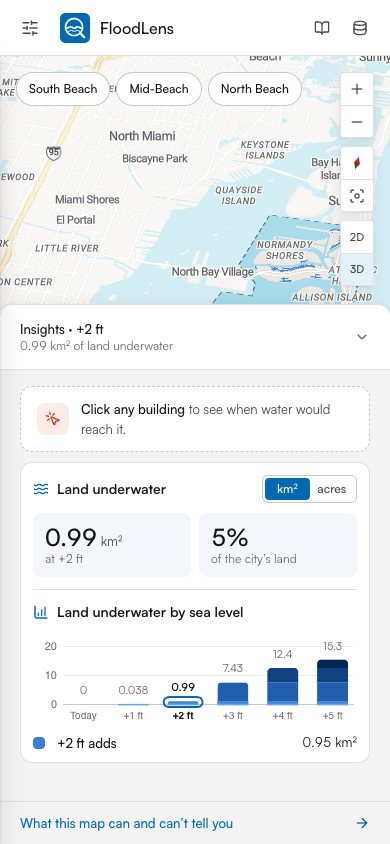
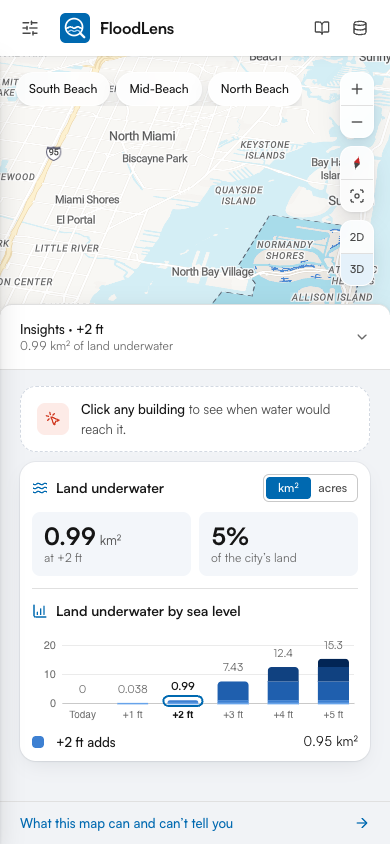
v0.25: building areas in m², soft depth and glass, bolder type
- Building footprints (and the low part of a footprint) always read in m²;
  10,000 m² and up used to switch to km².
- Panel cards: a faint ring and soft shadow instead of a hard border, 16 px
  corners, cooler canvas (#f1f3f6). Area chips, legend and map controls are
  frosted glass (88% white, text kept at 4.5:1+ over the darkest flood blue;
  solid when reduce-transparency is on). Header shadow instead of a line.
- Bolder type: wordmark, panel titles, sea level, the card's answer and the
  two figures bold with tighter tracking; bolder, wider overlines.
- Before/after previews of all four directions saved in docs/versions/v0.25.

diff --git a/src/components/insights/InsightPanel.tsx b/src/components/insights/InsightPanel.tsx
@@ -46,7 +46,7 @@ export function InsightPanel({ manifestState, inspection, bands, highlightFt, on
       onClear={() => dispatch({ type: 'select', selection: null })}
     />
   ) : manifestState.status === 'ready' ? (
-    <div className="flex items-center gap-3 rounded-xl border border-dashed border-line-strong bg-surface px-4 py-3">
+    <div className="flex items-center gap-3 rounded-2xl border border-dashed border-[#d3d9e2] bg-surface px-4 py-3">
       <span className="grid size-8 shrink-0 place-items-center rounded-lg bg-[#fdebe7] text-[#d03a22]" aria-hidden>
         <MousePointerClick className="size-4" />
       </span>
@@ -56,7 +56,7 @@ export function InsightPanel({ manifestState, inspection, bands, highlightFt, on
     </div>
   ) : null
 
-  // A light grey canvas, so the white card and tile read as cards (v0.20).
+  // A light grey canvas, so the white card and tile read as cards (v0.20); soft shadows, not borders (v0.25).
   return (
     <div className="flex h-full flex-col bg-canvas">
       {/* No visible title: the card and the block headers already say what this is,
@@ -86,7 +86,7 @@ export function InsightPanel({ manifestState, inspection, bands, highlightFt, on
           <>
             {/* One tile for everything the km² / acres switch controls: the figures at the
                 chosen level, then every level in the chart, with what each foot adds. */}
-            <section aria-labelledby="summary-title" className="mt-2.5 rounded-xl border border-line bg-surface px-3 pt-3 pb-1.5">
+            <section aria-labelledby="summary-title" className="card mt-2.5 px-3 pt-3 pb-1.5">
               <div className="flex items-center justify-between gap-3">
                 <h3 id="summary-title" className="flex items-center gap-2 t-heading font-semibold">
                   <Waves className="size-4 shrink-0 text-accent" aria-hidden />
@@ -104,14 +104,14 @@ export function InsightPanel({ manifestState, inspection, bands, highlightFt, on
                   <div className="flex flex-col-reverse rounded-lg bg-[#f3f6fa] px-3 py-2.5">
                     <dt className="t-caption">at {formatScenario(s.feet)}</dt>
                     <dd className="flex items-baseline gap-1">
-                      <span className="text-[24px] leading-7 font-medium tracking-tight text-fg tabular">{formatArea(s.beyondBaselineM2, unit)}</span>
+                      <span className="text-[24px] leading-7 font-bold tracking-[-0.03em] text-fg tabular">{formatArea(s.beyondBaselineM2, unit)}</span>
                       <span className="text-[13px] text-fg-muted">{unitShort}</span>
                     </dd>
                   </div>
                   {landM2 ? (
                     <div className="flex flex-col-reverse rounded-lg bg-[#f3f6fa] px-3 py-2.5">
                       <dt className="t-caption">of the city’s land</dt>
-                      <dd className="text-[24px] leading-7 font-medium tracking-tight text-fg tabular">
+                      <dd className="text-[24px] leading-7 font-bold tracking-[-0.03em] text-fg tabular">
                         {formatPercent(s.beyondBaselineM2 / landM2, true)}
                       </dd>
                     </div>

diff --git a/src/styles/index.css b/src/styles/index.css
@@ -12,7 +12,7 @@
   --font-mono: ui-monospace, 'SF Mono', Menlo, monospace;
 
   /* Surfaces */
-  --color-canvas: #f3f3f3;
+  --color-canvas: #f1f3f6;
   --color-surface: #ffffff;
   --color-surface-2: #f8f8f8;
   --color-surface-3: #efefef;
@@ -41,6 +41,11 @@
 
   --shadow-panel: 0 1px 2px rgb(0 0 0 / 0.06), 0 4px 16px rgb(0 0 0 / 0.08);
   --shadow-float: 0 1px 3px rgb(0 0 0 / 0.1), 0 8px 24px rgb(0 0 0 / 0.12);
+  /* v0.25: a faint ring and a soft, low shadow instead of a hard border (cards), and a
+     stronger lift for the frosted controls that float over the map (glass). */
+  --shadow-card: 0 0 0 1px rgb(16 24 40 / 0.05), 0 1px 2px rgb(16 24 40 / 0.04), 0 8px 20px -6px rgb(16 24 40 / 0.1);
+  --shadow-glass: 0 1px 2px rgb(16 24 40 / 0.06), 0 10px 24px -8px rgb(16 24 40 / 0.3);
+  --shadow-header: 0 1px 0 rgb(16 24 40 / 0.06), 0 4px 12px -4px rgb(16 24 40 / 0.06);
 
   --animate-fade-in: fade-in 180ms ease-out both;
   --animate-slide-up: slide-up 220ms cubic-bezier(0.2, 0.8, 0.2, 1) both;
@@ -88,6 +93,29 @@
     background: var(--color-surface);
     border-color: var(--color-line);
   }
+  /* Panel cards: no border, a faint ring and a soft shadow, 16 px corners (v0.25). */
+  .card {
+    border-radius: 16px;
+    background: var(--color-surface);
+    box-shadow: var(--shadow-card);
+  }
+  /* Frosted controls over the map: the map shows through, softened (v0.25). 88% white keeps
+     accent text at 4.5:1 even over the darkest flood blue; secondary text is a step darker
+     here for the same reason. */
+  .glass {
+    --color-fg-subtle: #575757;
+    background: rgb(255 255 255 / 0.88);
+    -webkit-backdrop-filter: blur(14px) saturate(1.5);
+    backdrop-filter: blur(14px) saturate(1.5);
+    box-shadow: var(--shadow-glass);
+  }
+  @media (prefers-reduced-transparency: reduce) {
+    .glass {
+      background: var(--color-surface);
+      -webkit-backdrop-filter: none;
+      backdrop-filter: none;
+    }
+  }
   .section-title {
     font-size: 13px;
     line-height: 20px;
@@ -99,8 +127,8 @@
   .t-display {
     font-size: 36px;
     line-height: 40px;
-    font-weight: 500;
-    letter-spacing: -0.01em;
+    font-weight: 700;
+    letter-spacing: -0.03em;
     font-variant-numeric: tabular-nums;
     color: var(--color-fg);
   }
@@ -121,7 +149,8 @@
   .t-heading {
     font-size: 14px;
     line-height: 20px;
-    font-weight: 500;
+    font-weight: 700;
+    letter-spacing: -0.005em;
     color: var(--color-fg);
   }
   .t-label {
@@ -140,10 +169,10 @@
     color: var(--color-fg-subtle);
   }
   .t-overline {
-    font-size: 11px;
+    font-size: 10.5px;
     line-height: 16px;
-    font-weight: 500;
-    letter-spacing: 0.06em;
+    font-weight: 700;
+    letter-spacing: 0.09em;
     text-transform: uppercase;
     color: var(--color-fg-subtle);
   }

diff --git a/src/components/insights/InspectionCard.tsx b/src/components/insights/InspectionCard.tsx
@@ -70,7 +70,7 @@ export function InspectionCard({ selection, inspection, scenarioFt, onClear }: P
   const Icon = building ? Building2 : onWater ? Waves : MapPin
 
   return (
-    <section aria-labelledby="insp-title" className="rounded-xl border border-line bg-surface p-3 shadow-panel animate-slide-up">
+    <section aria-labelledby="insp-title" className="card p-3 animate-slide-up">
       {/* What and where. The vermilion icon matches the selection on the map. */}
       <div className="flex items-start gap-2">
         <Icon className="mt-0.5 size-[18px] shrink-0 text-[#d03a22]" aria-hidden />
@@ -131,7 +131,7 @@ export function InspectionCard({ selection, inspection, scenarioFt, onClear }: P
               <div className="mt-3 rounded-lg border border-[#d5e6fa] bg-gradient-to-b from-[#f6faff] to-[#ecf4fd] px-3 pt-2 pb-1.5">
                 <div className="flex flex-wrap items-baseline justify-between gap-x-3">
                   <p className="t-overline">Water reaches at</p>
-                  <p className="text-[24px] leading-8 font-semibold tracking-tight text-fg tabular">{answer}</p>
+                  <p className="text-[24px] leading-8 font-bold tracking-[-0.03em] text-fg tabular">{answer}</p>
                 </div>
                 <div className="mt-1">
                   <LevelTrack levels={hits} firstFeet={firstFeet} scenarioFt={scenarioFt} />

diff --git a/src/components/controls/ControlPanel.tsx b/src/components/controls/ControlPanel.tsx
@@ -25,8 +25,8 @@ export function ControlPanel({ manifest }: Props) {
   return (
     // Each section on its own white tile over the grey canvas, matching the Insights panel (v0.20).
     <div className="scrollbar-thin flex h-full flex-col gap-3 overflow-y-auto bg-canvas p-3">
-      <section aria-labelledby="sec-level" className="rounded-xl border border-line bg-surface p-4">
-        <h2 id="sec-level" className="t-title mb-3">
+      <section aria-labelledby="sec-level" className="card p-4">
+        <h2 id="sec-level" className="t-title mb-3 text-[15px] font-bold tracking-[-0.01em]">
           Sea level
         </h2>
         <ScenarioSelector
@@ -37,8 +37,8 @@ export function ControlPanel({ manifest }: Props) {
         />
       </section>
 
-      <section aria-labelledby="sec-layers" className="rounded-xl border border-line bg-surface p-4">
-        <h2 id="sec-layers" className="t-title mb-2">
+      <section aria-labelledby="sec-layers" className="card p-4">
+        <h2 id="sec-layers" className="t-title mb-2 text-[15px] font-bold tracking-[-0.01em]">
           On the map
         </h2>
         {LAYERS.filter((l) => !l.needsLowLying || hasLowLying).map((l) => (

diff --git a/src/components/layout/TopBar.tsx b/src/components/layout/TopBar.tsx
@@ -11,7 +11,7 @@ interface Props {
 export function TopBar({ isDesktop, controlsOpen }: Props) {
   const dispatch = useAppDispatch()
   return (
-    <header className="relative z-30 flex h-14 shrink-0 items-center gap-3 border-b border-line bg-surface px-3 sm:px-4">
+    <header className="relative z-30 flex h-14 shrink-0 items-center gap-3 bg-surface px-3 shadow-[var(--shadow-header)] sm:px-4">
       {!isDesktop && (
         <button
           type="button"
@@ -27,7 +27,7 @@ export function TopBar({ isDesktop, controlsOpen }: Props) {
 
       <div className="flex min-w-0 items-center gap-2.5">
         <BrandMark size={30} />
-        <h1 className="t-title">FloodLens</h1>
+        <h1 className="t-title font-bold tracking-[-0.015em]">FloodLens</h1>
       </div>
 
       <div className="mx-1 hidden h-5 w-px bg-line md:block" aria-hidden />

diff --git a/src/components/map/AreaBookmarks.tsx b/src/components/map/AreaBookmarks.tsx
@@ -23,10 +23,10 @@ export function AreaBookmarks({ onGo, active }: Props) {
             type="button"
             onClick={() => onGo(a.id, a.center)}
             aria-current={on ? 'location' : undefined}
-            className={`shrink-0 rounded-full bg-surface text-[12px] leading-5 font-medium transition-colors sm:text-[13px] ${
+            className={`glass shrink-0 rounded-full text-[12px] leading-5 font-medium transition-colors sm:text-[13px] ${
               on
                 ? 'border-2 border-accent px-[11px] py-[5px] text-accent sm:px-[15px]'
-                : 'border border-line-strong px-3 py-1.5 text-fg hover:border-accent hover:text-accent sm:px-4'
+                : 'border border-white/80 px-3 py-1.5 text-fg hover:border-accent hover:text-accent sm:px-4'
             }`}
           >
             {a.label}

diff --git a/src/lib/format.ts b/src/lib/format.ts
@@ -28,10 +28,9 @@ export const AREA_UNITS: Record<AreaUnit, { short: string; long: string; title: 
 export const formatArea = (m2: number, unit: AreaUnit) => (unit === 'km2' ? formatKm2(m2) : formatAcres(m2))
 export const toUnit = (m2: number, unit: AreaUnit) => m2 / (unit === 'km2' ? M2_PER_KM2 : M2_PER_ACRE)
 
-/** Small polygon areas read better in m² */
+/** Building-scale areas (footprints, the low part of a footprint): always m², so every building reads in the same unit. */
 export function formatSmallArea(m2: number): string {
-  if (m2 < 10_000) return `${Math.round(m2).toLocaleString('en-US')} m²`
-  return `${formatKm2(m2)} km²`
+  return `${Math.round(m2).toLocaleString('en-US')} m²`
 }
 
 export function formatScenario(ft: number): string {

diff --git a/src/components/map/MapLegend.tsx b/src/components/map/MapLegend.tsx
@@ -25,7 +25,7 @@ interface Props {
 export function MapLegend({ bands, scenarioFt, showFlood, showLowLying, showBuildings, showStudyArea, highlightFt, onHighlight, defaultOpen = true }: Props) {
   const [open, setOpen] = useState(defaultOpen)
   return (
-    <section aria-label="Map legend" className="pointer-events-auto w-52 overflow-hidden rounded border border-line bg-surface/95 shadow-float backdrop-blur-sm">
+    <section aria-label="Map legend" className="pointer-events-auto glass w-52 overflow-hidden rounded-[14px] border border-white/80">
       <button
         type="button"
         onClick={() => setOpen((v) => !v)}

diff --git a/src/lib/format.test.ts b/src/lib/format.test.ts
@@ -23,7 +23,8 @@ describe('format', () => {
 
   it('formats small areas, percentages and coordinates', () => {
     expect(formatSmallArea(1234.4)).toBe('1,234 m²')
-    expect(formatSmallArea(52_000)).toBe('0.052 km²')
+    // Large buildings stay in m², never km².
+    expect(formatSmallArea(11_420.6)).toBe('11,421 m²')
     expect(formatPercent(0.0004)).toBe('<0.1%')
     expect(formatPercent(0.598)).toBe('60%')
     expect(formatCoord(-80.1342, 25.7811)).toBe('25.78110° N, 80.13420° W')

diff --git a/src/components/map/MapControls.tsx b/src/components/map/MapControls.tsx
@@ -17,7 +17,7 @@ interface Props {
 
 function Group({ children, label }: { children: ReactNode; label: string }) {
   return (
-    <div role="group" aria-label={label} className="flex flex-col overflow-hidden rounded border border-line bg-surface shadow-panel">
+    <div role="group" aria-label={label} className="glass flex flex-col overflow-hidden rounded-xl border border-white/80">
       {children}
     </div>
   )

diff --git a/docs/DESIGN_DECISIONS.md b/docs/DESIGN_DECISIONS.md
@@ -22,7 +22,7 @@ background → land cover / land use → [NOAA extent · comparison · low-lying
 - **Buildings:** extrusions in 3D, translucent footprints and outlines in 2D, so overlays under buildings stay visible from above.
 - **Labels** stay above every overlay and use a white halo for legibility on the blue bands.
 - **Map controls live in the map** (top-right): zoom, compass / show all of Miami Beach, then 2D/3D. The full-extent control uses a frame (focus) icon, not a house: it fits the whole city into view rather than going "home".
-- **Area chips** (top-left) fly to South Beach, Mid-Beach and North Beach and keep 2D/3D. They're flat (white, 1 px border, no shadow or tint). The chip you pick turns accent blue with a 2 px border straight away, not when the camera arrives; panning by hand hands the highlight back to "nearest area when zoomed in" (by distance to its bookmark, since the areas have no official boundary). A 16 px map gutter is shared with the map controls and legend.
+- **Area chips** (top-left) fly to South Beach, Mid-Beach and North Beach and keep 2D/3D. They're frosted glass (88% white, blurred map behind, a soft shadow; v0.25; flat white with a 1 px border before). The chip you pick turns accent blue with a 2 px border straight away, not when the camera arrives; panning by hand hands the highlight back to "nearest area when zoomed in" (by distance to its bookmark, since the areas have no official boundary). A 16 px map gutter is shared with the map controls and legend.
 - **Bottom edge:** attribution runs along the very bottom with the scale bar above it on the right, and the legend sits above both on the left, so the three never overlap. Below 1024 px the controls lift above the insights sheet.
 - **The opening view fits the city** to the viewport in Web Mercator (tilted 40°, looking north-north-west), accounting for the mobile bottom sheet. Camera controls act on the map, so they belong on it (ArcGIS, komoot, Google Maps). The header keeps only app-level actions (about, sources).
 - **Selection highlight** is drawn 0.4 m wider and 0.6 m taller than the clicked building. Coincident faces z-fight (flicker) while zooming.
@@ -72,10 +72,10 @@ v0.4–v0.10 drew a house on rising streams of water instead. v0.11 put the answ
 | Buildings | sandstone `#f0e6d6` → `#e3d3bb` by height | A light, warm stone colour (a nod to Miami Beach's Art Deco stucco): the complementary hue to the blue ramp, so buildings read clearly on every band without the heaviness of grey |
 | Low-lying (unconnected) | `#6b35aa`, diagonal hatch + dashed outline | Pattern carries the meaning without colour |
 | Selection | vermilion `#e8452c` building / ring, outline `#9e2410` | A colour no data layer uses, so the selection is unmistakable; the card's icon repeats it to link card and map. Chosen in v0.20 from four measured options: its worst-case OKLab ΔE against every map colour (water, all six flood blues, buildings, land, parks, low spots, roads) is 21 for normal and colour-blind vision. Orange, before, was 18; magenta collapsed to 8 against the +3 ft blue for protanopia |
-| Panels | canvas `#f3f3f3`, white tiles with a `#e0e0e0` border, stat tiles `#f3f6fa` | Both side panels sit on a light grey canvas so their contents read as cards (v0.20). The two figures in the area tile each get a soft filled stat tile with no border, so the borders don't nest |
+| Panels | canvas `#f1f3f6`, white cards with a faint ring and soft shadow (no border), stat tiles `#f3f6fa` | Both side panels sit on a light grey canvas so their contents read as cards (v0.20); the hard borders gave way to soft shadows in v0.25, for a calmer, more premium finish. The two figures in the area tile each get a soft filled stat tile with no border, so the borders don't nest |
 | Study area | dashed `#3d4655`; outside washed with 50% white | Reads as a boundary, not data |
 | UI accent | `#0069b0` (Esri/Calcite-style blue) | Interaction, focus, selected states; 5.0–5.8:1 on all surfaces |
-| UI surfaces | white panels, `#f3f3f3` canvas, `#e0e0e0` borders | Calcite-like light chrome |
+| UI surfaces | white panels, `#f1f3f6` canvas, frosted glass over the map (88% white) | Calcite-like light chrome. On glass, secondary text is `#575757` so it keeps 4.5:1 over the darkest flood blue; *reduce transparency* makes it solid |
 
 Map and UI colours live in `src/lib/theme.ts` and the CSS tokens in `src/styles/index.css`. Legend swatches render from the same values.
 
@@ -91,7 +91,9 @@ Map and UI colours live in `src/lib/theme.ts` and the CSS tokens in `src/styles/
 
 Map labels stay in **Roboto** (Regular, Medium and Italic SDF glyphs self-hosted in `public/fonts/`, because OpenFreeMap only serves Noto Sans). MapLibre needs fonts converted to SDF glyph files, and Satoshi's licence doesn't allow format conversion. Roboto's open shapes also hold up better at 10–12 px over a busy map.
 
-Type scale (classes in `src/styles/index.css`): `t-display` 36/500 (sea level) · `t-metric` 28/500 (headline number) · `t-title` 16/500 (panel titles) · `t-heading` 14/500 · `t-label` 13/500 · `t-body` 13/400 · `t-caption` 12/400 · `t-overline` 11/500 uppercase. Tabular numerals for all quantities.
+Type scale (classes in `src/styles/index.css`): `t-display` 36/700 (sea level) · `t-metric` 28/500 (headline number) · `t-title` 16/500 (the wordmark and panel titles are bold) · `t-heading` 14/700 · `t-label` 13/500 · `t-body` 13/400 · `t-caption` 12/400 · `t-overline` 10.5/700 uppercase, 0.09em tracking. Tabular numerals for all quantities.
+
+**Bolder hierarchy (v0.25).** Titles and the key numbers (the sea level, the card's answer and the two figures) are bold with tighter tracking (−0.03em on large numbers), so the eye lands on them first. Body text stays regular, so bold keeps its meaning. Satoshi has no semibold, so 600 already rendered as bold.
 
 ## Engineering
 

diff --git a/CHANGELOG.md b/CHANGELOG.md
@@ -28,8 +28,20 @@ Every version is tagged in git (`git checkout v0.3`) and has a screenshot set in
 | v0.22 | 28 Oct 2026 | Clearer (i) note, level track without circles | [`docs/versions/v0.22/`](docs/versions/v0.22/) |
 | v0.23 | 28 Oct 2026 | Smaller level labels in the card's track | [`docs/versions/v0.23/`](docs/versions/v0.23/) |
 | v0.24 | 28 Oct 2026 | Smaller x-axis labels in the chart | [`docs/versions/v0.24/`](docs/versions/v0.24/) |
+| v0.25 | 28 Oct 2026 | Building areas in m², soft depth and glass, bolder type | [`docs/versions/v0.25/`](docs/versions/v0.25/) |
 
 ---
+
+## v0.25: Building areas in m², a more premium finish (28 Oct 2026)
+
+- **Building areas are always in m².** A footprint of 10,000 m² or more used to switch to km² ("≈ 0.011 km²"), unlike every other building. Footprints, and the low part of a footprint, now always read in m² ("≈ 11,421 m²").
+- **Premium finish.** Four directions were previewed as before/after images (soft depth and glass, bolder type, map lighting, navy header). Two were chosen:
+  - **Soft depth and glass:** the panel cards lose their hard border for a faint ring and a soft shadow, with 16 px corners. The canvas is a cooler grey (`#f1f3f6`). The area chips, legend and map controls are frosted glass over the map. The header has a soft shadow instead of a line.
+  - **Bolder type:** the wordmark, the panel titles ("Sea level", "On the map"), the sea level (+2 ft), the answer (+3 ft) and the two figures are bold with tighter tracking. Overlines ("Water reaches at") are bold with wider spacing. Sizes and wording are unchanged.
+  - Map lighting and the navy header weren't chosen. Their previews are kept in the version folder.
+- **Contrast on glass:** the glass is 88% white, so accent text keeps 4.5:1 even over the darkest flood blue. Secondary text on glass is a step darker (`#575757`, 5.7:1 in that worst case). With *reduce transparency* on, the glass turns solid white.
+- New screenshots `11`–`14`: the four before/after previews.
+- Tests: 101 unit/component tests and 17 end-to-end tests.
 
 ## v0.24: Smaller chart axis labels (28 Oct 2026)
 
